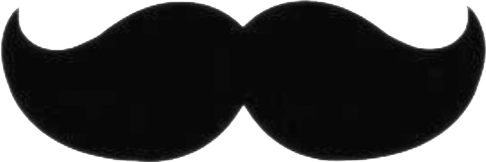
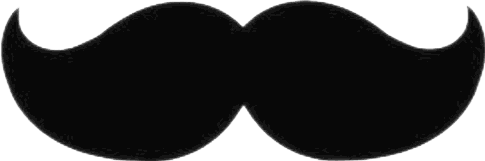
Image sizes

diff --git a/tools/shrink-empty-pixels.py b/tools/shrink-empty-pixels.py
@@ -1,5 +1,6 @@
 from PIL import Image
-# from pylab import *
+from PIL.Image import Resampling
+import sys
 
 import numpy as np
 import glob
@@ -14,8 +15,10 @@ for f in glob.glob("../public/filters/*.png"):
 
     region = im.crop(box)
     print('saving cropped ' + f)
-    region.save(f, 'png')
-    
+    region.thumbnail((1000, sys.maxsize), Resampling.LANCZOS)
+    region = region.convert("P", palette=Image.ADAPTIVE, colors=256)
+    region.save(f, optimize=True)
+
     # region_pix = np.asarray(region)
 
     # subplot(121)
